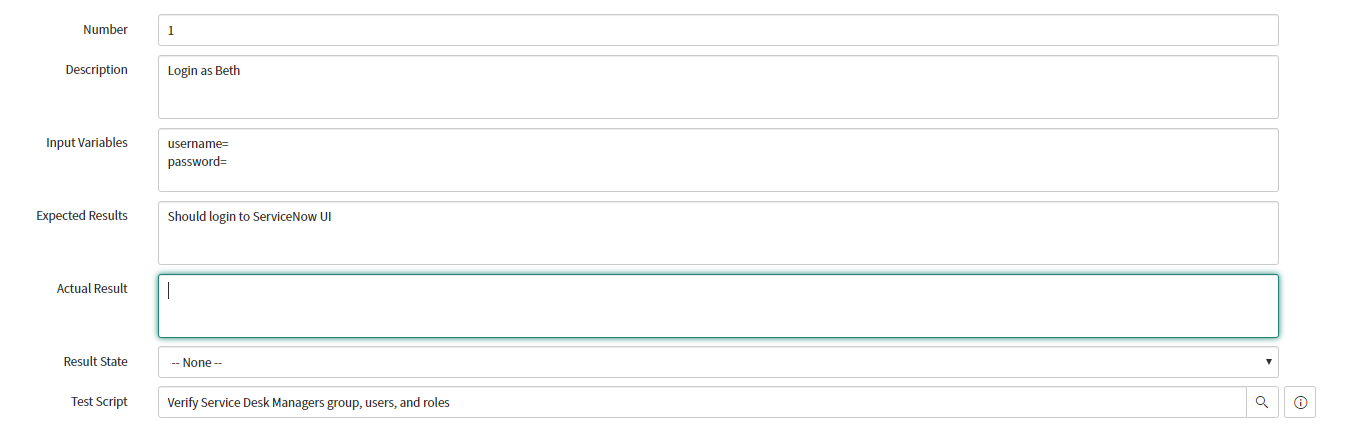
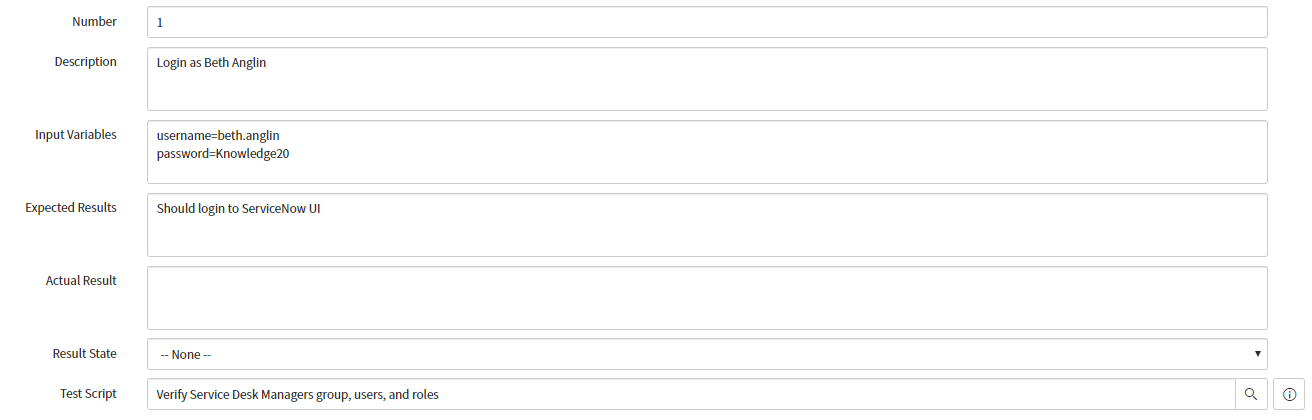
updated lab 4
Updated lab 4 with 4 steps of checking for Service Desk Managers group excist and Beth Anglin Assignent to excist.

diff --git a/guidebook.md b/guidebook.md
@@ -447,7 +447,7 @@ Description | Added the Test Scripts related list to the Story (rm_story) form's
 
 ![](images/updated_m2m.PNG)
 
-17. The next step is creating the Test Step. Go back to the Test Script form and select Test Step next to M2M Test Script Scenarios and click on **New**.
+17. The next step is creating couple of Test Steps. Go back to the Test Script form and select **Test Step** next to M2M Test Script Scenarios and click on **New**.
 
 18. In the new Test Step record make sure the fields are filled out with the below information. Verify the information in the form and click Submit.  
 
@@ -455,11 +455,45 @@ Description | Added the Test Scripts related list to the Story (rm_story) form's
 
 **Number:** 1  
 **Description:** Login as Beth  
-**Input Values:** username= password=    
+**Input Values:** username=beth.anglin password=Knowledge20    
 **Expected Results:** Should login to ServiceNow UI  
 **Actual Results:**
 
+19. Repeat the proccess of filling the Test Step with the following information, and press insert and stay on the top bar.
 
+**Number:** 2  
+**Description:** Navigate to Incidents > Create New  
+**Input Values:** N/A    
+**Expected Results:** Opens a blank Incident to be submited  
+**Actual Results:**  
+
+**Number:** 3  
+**Description:** Attempt to assign new incident to the "Service Desk Managers" group. This will prove that the group has been created in the ServiceNow  
+**Input Values:** Assignment Group = Service Desk Managers    
+**Expected Results:** Assignment Group field is filled in with Service Desk Managers  
+**Actual Results:**  
+
+**Number:** 4  
+**Description:** Assign Beth Anglin to the Assigned to field on the incident. Service Desk Managers group should already be selected on the incident  
+**Input Values:** Assignment Group = Service Desk Managers, Assignt To = Beth Anglin    
+**Expected Results:** Beth Anglin gets filled in the Assigned to field on the incident. The field does not throw an error saying the user does not excist  
+**Actual Results:** 
+
+20. Now that we created some test steps, lets test them out. First we want to login as Beth Anglin. After you login you should see the ITIL Homepage.  
+
+![](images/test_test_steps_1.PNG)
+
+21. Our next Test Step is to go to left Filter Navigator and navigate to **Incidents > Create New**. There you should see a blank Incident to be submited.  
+
+![](images/test_test_steps_2.PNG)
+
+23. Third Step in our Test Steps is to Attempt to assign the Assignment group to the Incident to test if the Service Desk Managers are created. It should not give any errors and fill the Assignment group field.
+
+![](images/test_test_steps_3.PNG)
+
+24. Test the 4 Test step by assigning Beth Anglin to the Assigned to.
+
+![](images/test_test_steps_4.PNG)
 
 # Lab 5: Best Practices
 ## How to create successful testing scripts. 
